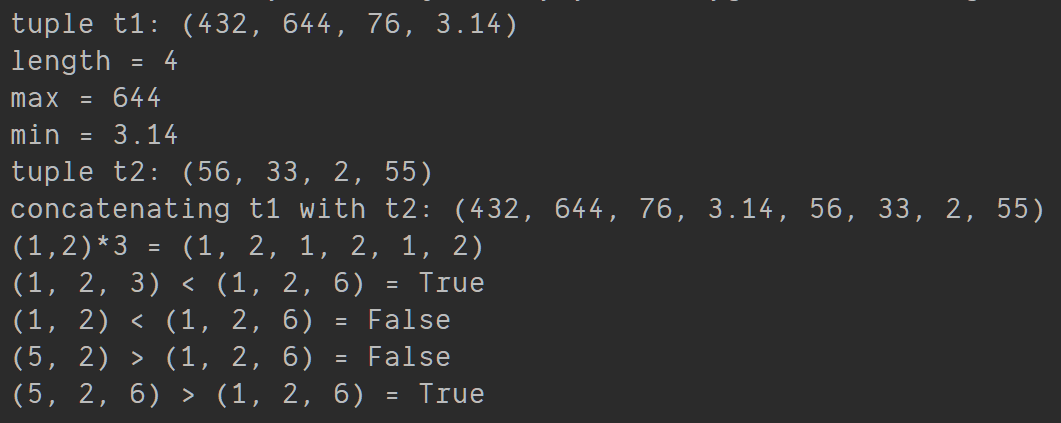
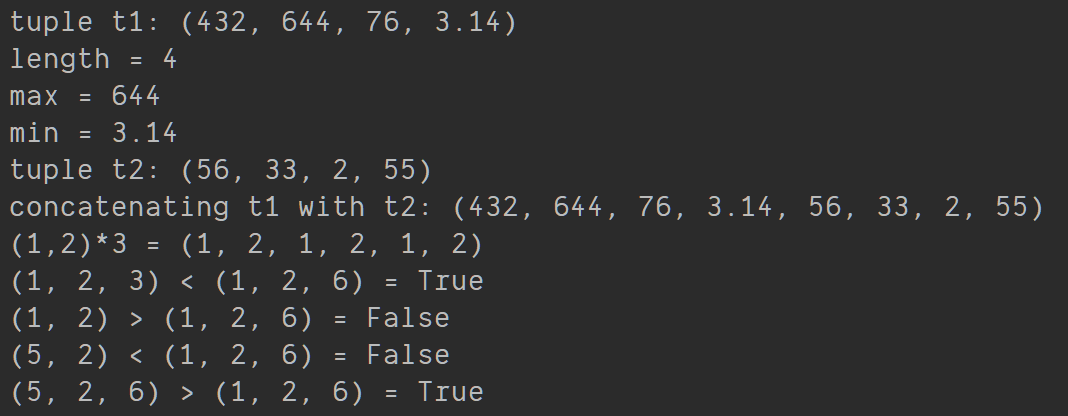
Add files via upload

diff --git a/L58.py b/L58.py
@@ -13,6 +13,6 @@ print("concatenating t1 with t2:", t1)
 print("(1,2)*3 =", (1, 2) * 3)
 
 print((1, 2, 3), "<", (1, 2, 6), "=", (1, 2, 3) < (1, 2, 6))
-print((1, 2), "<", (1, 2, 6), "=", (1, 2) > (1, 2, 6))
-print((5, 2), ">", (1, 2, 6), "=", (5, 2) < (1, 2, 6))
+print((1, 2), ">", (1, 2, 6), "=", (1, 2) > (1, 2, 6))
+print((5, 2), "<", (1, 2, 6), "=", (5, 2) < (1, 2, 6))
 print((5, 2, 6), ">", (1, 2, 6), "=", (5, 2, 6) > (1, 2, 6))

diff --git a/L61.py b/L61.py
@@ -1,0 +1,8 @@
+d1 = {"Dec":12, "Nov":11, "Oct":10}
+print("d1:", d1)
+d1['Sep']=8
+print("after adding ['Sep']:8, d1 =", d1)
+d1.update(Sep = 9)      #d1['Sep']=9
+print("after updating ['Sep']:9, d1 =", d1)
+del d1["Sep"]           #d1.pop("Sep")
+print("after deleting ['Sep']:9, d1 =", d1)

diff --git a/L64.py b/L64.py
@@ -1,0 +1,5 @@
+d1 = {"C":"1.Cat", "B":"2.Ball", "A":"3.Apple"}
+print("d1:", d1)
+print("sorted by keys =", sorted(d1))
+print("sorted in reverse order =", sorted(d1, reverse=True))
+print("sorted by values =", sorted(d1.items(), key=lambda x: x[1]))

diff --git a/L60.py b/L60.py
@@ -1,0 +1,4 @@
+d1 = {"Dec":12, "Nov":11, "Oct":10}
+print("d1:", d1)
+print("d1['Nov'] =", d1['Nov'])
+print("d1['Dec'] =", d1.get('Dec'))

diff --git a/L59.py b/L59.py
@@ -1,0 +1,4 @@
+d1 = {"Dec":12, "Nov":11, "Oct":10}
+print("d1:", d1)
+d2 = {x:x**2 for x in range(5,10)}
+print("d2:", d2)

diff --git a/L62.py b/L62.py
@@ -1,0 +1,4 @@
+d1 = {"Dec":12, "Nov":11, "Oct":10}
+print("d1:", d1)
+d1.clear()
+print("after d1.clear():", d1)

diff --git a/L63.py b/L63.py
@@ -1,0 +1,3 @@
+d1 = {"Dec":12, "Nov":11, "Oct":10}
+print("d1:", d1)
+print("len(d1) =", len(d1))
